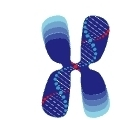
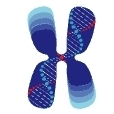
fix: 고객사 카드 이름 잘림 제거·좌측 정렬, 심평원 심볼 중앙 재크롭
긴 기관명이 말줄임(...)으로 잘리던 것을 줄바꿈(break-keep)으로 변경.
심볼 이미지는 잉크 경계 기준 중앙 정렬로 다시 크롭.

Claude-Session: https://claude.ai/code/session_01FtjDrBaCDL5y5mBU16xnWN

diff --git a/app/about/page.tsx b/app/about/page.tsx
@@ -215,8 +215,8 @@ export default function AboutPage() {
                   {c.name.charAt(0)}
                 </span>
               )}
-              <div className="min-w-0">
-                <p className="truncate text-sm font-semibold text-slate-800">
+              <div className="min-w-0 text-left">
+                <p className="break-keep text-sm font-semibold leading-snug text-slate-800">
                   {c.name}
                 </p>
                 <p className="text-xs text-slate-400">{c.sector}</p>